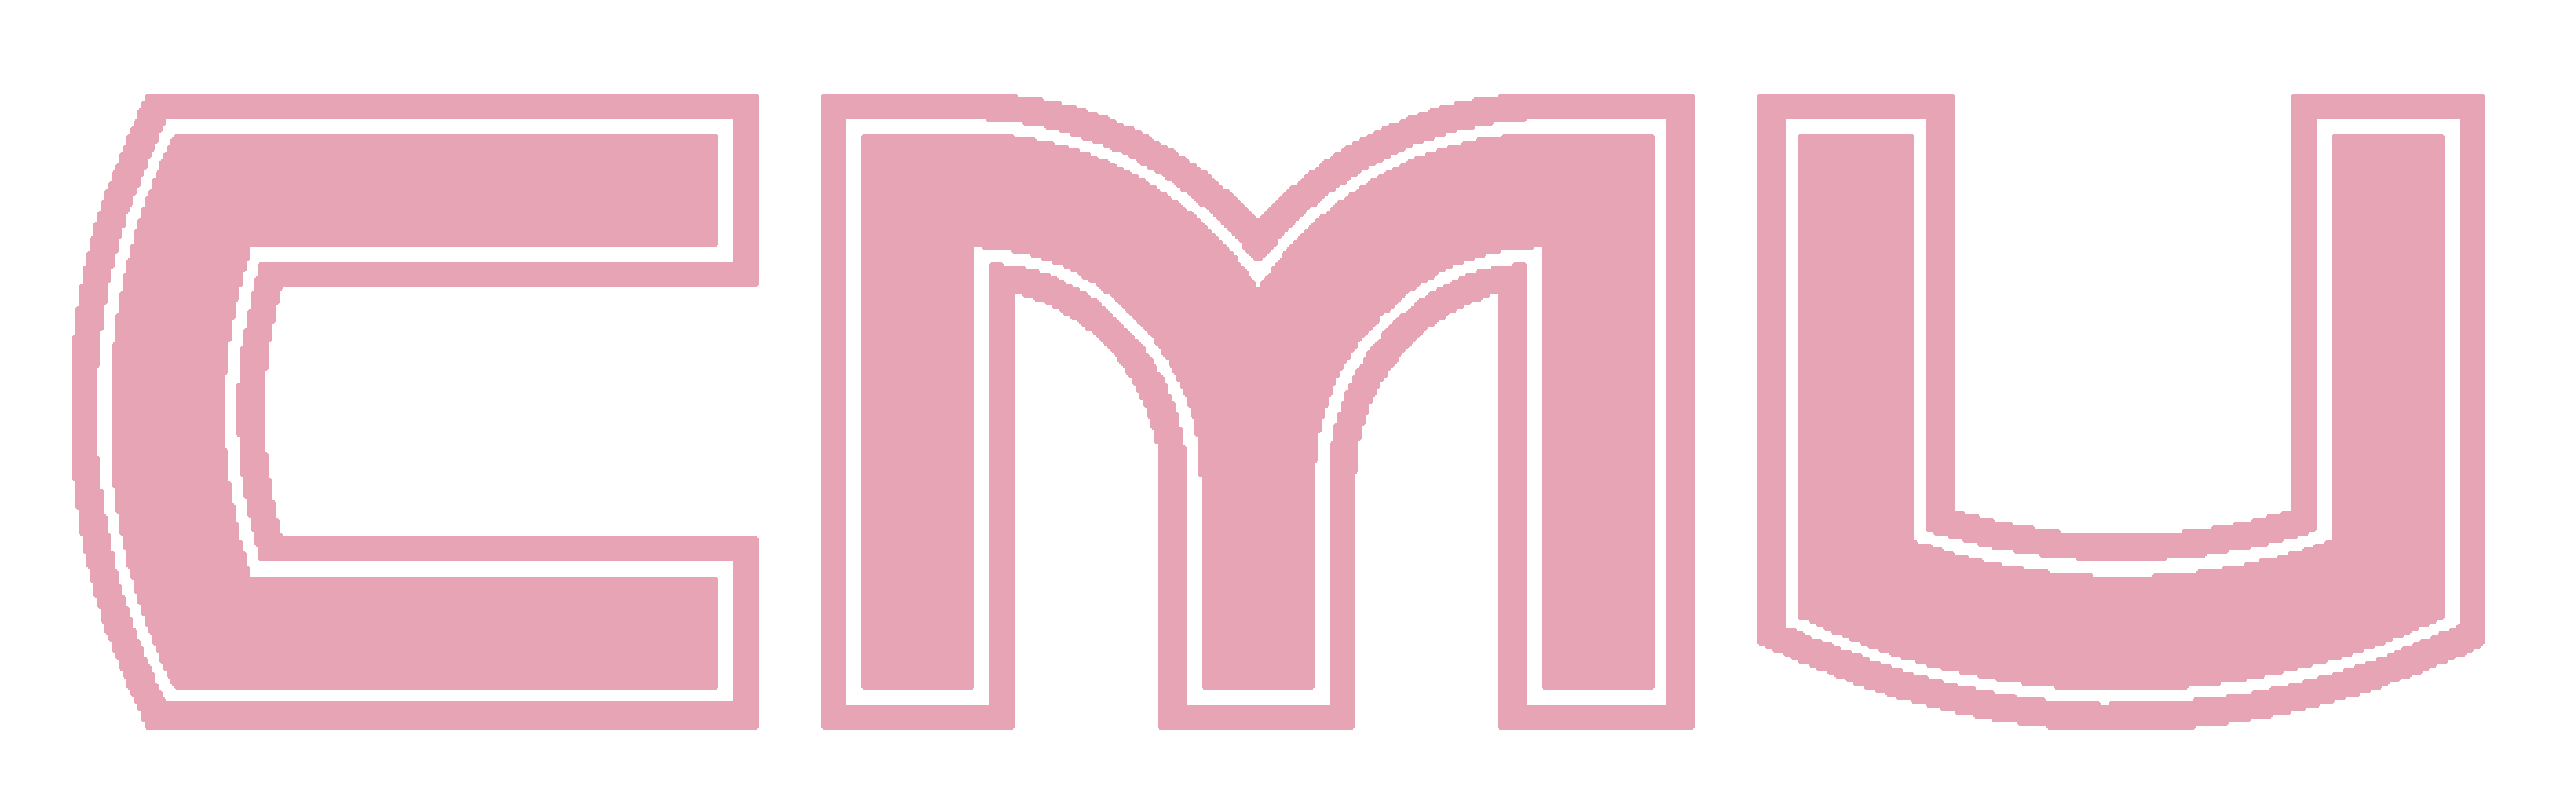
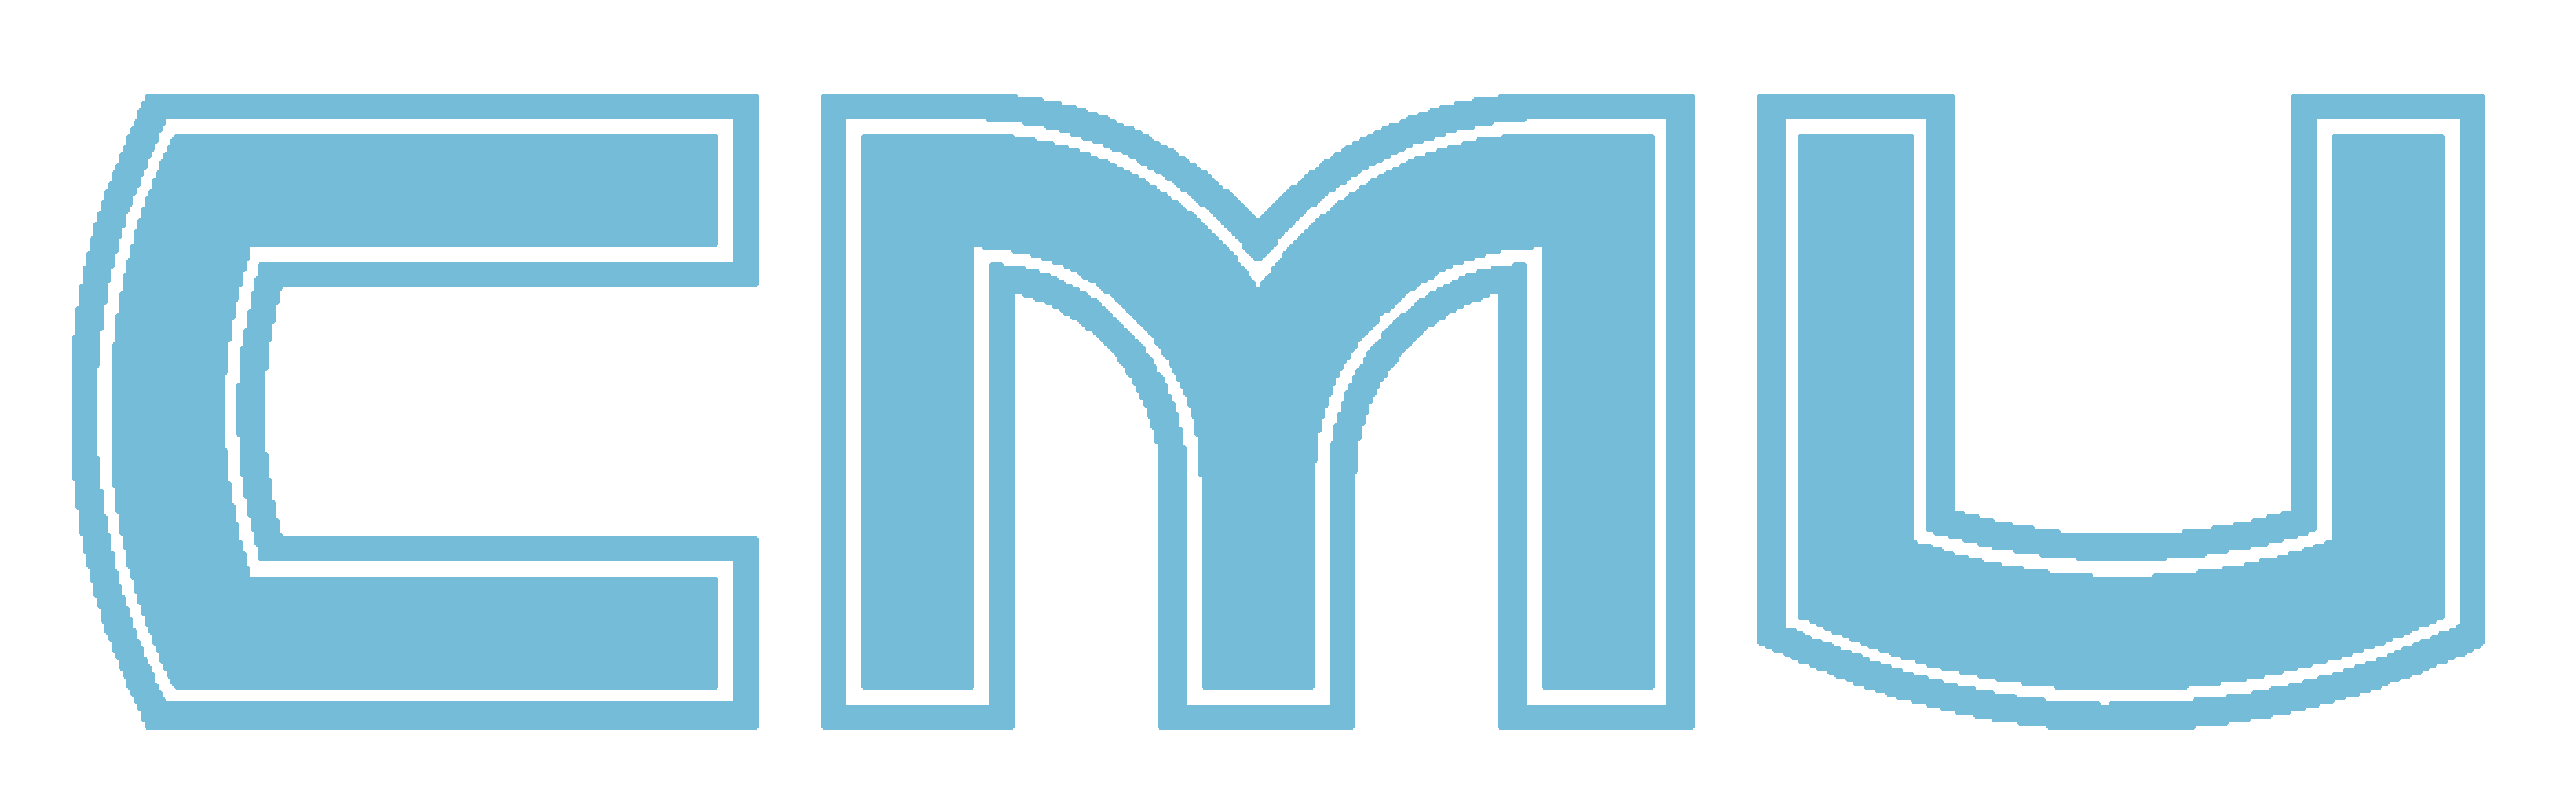
finished jan25 newsletter mostly

diff --git a/2025/01/colors.css b/2025/01/colors.css
@@ -1,18 +1,20 @@
 :root {
-	--color-1: #4B644A;
-	--color-2: #63264A;
-	--color-3: #AED67C;
-	--color-4: #E7A4B4;
+	--color-1: #4a4a4a;
+	--color-2: #75bcd9;
+	--color-3: #f8f1ef;
+	--color-4: #bbacd4;
+
 
 	--page-color: var(--color-1);
 
-	--title-tx-color: var(--color-4);
-	--h-color: var(--color-4);
-	--box-bg-color: var(--color-2);
+	--title-tx-color: var(--color-2);
+	--h-color: var(--color-2);
 
-	--tx-color: var(--color-3);
+	--tx-color: var(--color-4);
 
-	--box-tx-color: var(--color-4);
+	--box-bg-color: var(--color-4);
+	--box-tx-color: var(--color-1);
+
 }
 
 /* BORDERS */

diff --git a/2025/01/pages.php b/2025/01/pages.php
@@ -5,101 +5,101 @@
 	<!-- HEADER -->
 	<div class="page-section _10">
 		<div class="page-item vert-center">
-			<img class="contain no-lightbox" src="/2024/11/images/focus.png" alt="FOCUS logo">
+			<img class="contain no-lightbox" src="/2025/01/images/focus.png" alt="FOCUS logo">
 		</div>
 		<div class="page-item vert-center text-center w4 nopad">
 			<h1 class="cardo">The Mission at Mesa</h1>
-			<h6 class="italic" style="white-space: nowrap;">Zach Hofmeister<span class="no-style"> | </span>Colorado Mesa University<span class="no-style"> | </span>November + December 2024</h6>
+			<h5 class="italic" style="white-space: nowrap;">Zach Hofmeister<span class="no-style"> | </span>Colorado Mesa University<span class="no-style"> | </span>January 2025</h5>
 		</div>
 		<div class="page-item vert-center">
-			<img class="contain no-lightbox" src="/2024/11/images/cmu.png" alt="CMU logo">
+			<img class="contain no-lightbox" src="/2025/01/images/cmu.png" alt="CMU logo">
 		</div>
 	</div>
 
 	<!-- MAIN IMAGE -->
 	<div class="page-section _30">
 		<div class="page-item">
-			<img class="h100" src="/2024/11/images/mass.jpeg" alt="" style="object-position: 50% 30%;" data-caption="A group of some of the guys after weekday Mass one morning">
+			<img class="h100" src="/2025/01/images/dinner.jpeg" alt="" style="object-position: 50% 60%;" data-caption="Most of our students after the dinner we catered at SEEK!">
 		</div>
 	</div>
 
 	<!-- INTRO / PHOTO -->
 	<div class="page-section _30">
 		<div class="page-item">
+			<img class="photo-item h90" src="/2025/01/images/flag.jpeg" alt="" style="object-position: 50% 50%">
+			<p class="caption text-large">The men hoisting the Mesa flag</p>
+		</div>
+		<div class="page-item">
 			<div class="box">
 				<h2 class="italic">Dear Friends,</h2>
 				<p class="text-large">
-					I hope that you had a great Thanksgiving with family and are enjoying the season of Advent! As you prepare your heart for Christ's coming, take a seat by the fire and reflect with me on this past month-and-a-half of mission!
+					It's good to be back! Our students didn't start class 'til the 21st, but a lot has been going on! Over break we had the SEEK conference and a retreat with missionaries and students, and there's lots to share from starting the semester too!
 				</p>
 			</div>
-		</div>
-		<div class="page-item">
-			<img class="photo-item h80" src="/2024/11/images/thankful.jpeg" alt="" style="object-position: 50% 50%">
-			<p class="caption text-large">Our outreach activity asking people about what they are thankful for</p>
 		</div>
 	</div>
 
 	<!-- Paragraph + Image -->
 	<div class="page-section _30">
-		<div class="page-item">
-			<img class="h80" src="/2024/11/images/michelle.jpeg" alt="" >
-			<p class="caption text-large">Our huge group that saw the <a href="https://focus.org/michelleduppong/" target="_blank">Michelle Duppong</a> documentary in theaters</p>
+		<div class="page-item text-right">
+			<h3>SEEK Conference</h3>
+			<p class="text-medium">
+				We began our new year in Salt Lake City for SEEK25! In 2020 my life was forever changed when I encountered Jesus' heart anew at a FOCUS conference, and I love to witness Him working in our students there. It was amazing getting to go to powerful talks, daily Mass, and Adoration with them. <a href="https://seekreplay.com/video/141" target="_blank">This</a> was one of my favorite talks!
+			</p>
 		</div>
 		<div class="page-item">
-			<h3>Bible Study Wrap-Ups</h3>
-			<p class="text-medium">
-				After finishing the Crux, I started the <a href="https://focusequip.org/life-in-christ/" target="_blank">Life in Christ</a> Bible study with my group. So far, we've been talking about what it means to call ourselves disciples in the modern day, and how we practice discipleship through prayer and fellowship. I also shared the Gospel with Dylan and John over lunch, and invited them to enter discipleship too!
-			</p>
+			<img class="h80" src="/2025/01/images/dudes.jpeg" alt="" >
+			<p class="caption text-large">A bunch of the guys as we wait for a talk to start</p>
 		</div>
 	</div>
 </div>
 
 <!-- PAGE 2 -->
 <div class="page">
-	<!-- header -->
+	<!-- quote -->
 	<div class="page-section _10">
 		<div class="page-item center-center">
-			<p class="text-large text-center"><i>But you are not in darkness, brethren, for that day to surprise you like a thief. For you are all sons of light and sons of the day.</i> - <a href="https://www.biblegateway.com/passage/?search=1%20Thessalonians%205&version=RSVCE" target="_blank">1 Thessalonians 5:4-5</a></p>
-		</div>
-	</div>
-
-	<!-- photo-text -->
-	<div class="page-section _30">
-		<div class="page-item text-right">
-			<h3>Discipleship Update</h3>
-			<p class="text-medium">
-				In our discipleship meetings, I invited 3 more guys to take seriously Christ's call for us to be on mission with Him, and to do that through intentional friendship and starting Bible studies. Gabe, Drew, Barrett, and Nick will be preparing to start their own studies next semester over the break! I'm so excited for them to take this big step!
-			</p>
-		</div>
-		<div class="page-item">
-			<img class="photo-item h80" src="/2024/11/images/plates.jpeg" alt="" style="object-position: 50% 50%;" data-caption=" We wrote down sins and obstacles to sharing the Gospel on the plates, and I think you can figure out the rest.">
-			<p class="caption text-large">We made a men's trip to the desert with plates, sharpies, and baseball bats...</p>
-		</div>
-	</div>
-
-	<!-- photo-text -->
-	<div class="page-section _30">
-		<div class="page-item">
-			<img class="h80" src="/2024/11/images/birthday.jpeg" alt="">
-			<p class="caption text-large">The guys surprised me and celebrated my birthday with cake at discipleship :)</p>
-		</div>
-		<div class="page-item">
-			<h3>Recruitment Weekend</h3>
-			<p class="text-medium">
-				I got to help with a FOCUS recruitment weekend in November, and it was so rejuvenating. This year has honestly been stressful for me, and it was great to take a step back, see friends, talk with people discerning God's call to mission, and pray in a refreshed way. The Lord gave me a lot of peace and clarity in prayer that weekend!
-			</p>
+			<p class="text-large text-center"><i>And a voice came from the heavens, saying, “This is my beloved Son, with whom I am well pleased.”</i> - <a href="https://www.biblegateway.com/passage/?search=Matthew%203%3A16%2D17&version=NABRE" target="_blank">Matthew 3:17</a> (this verse was powerful for me at SEEK and since!)</p>
 		</div>
 	</div>
 
 	<!-- photos -->
 	<div class="page-section _25">
 		<div class="page-item">
-			<img class="photo-item h80" src="/2024/11/images/recruitment.jpeg" alt="" >
-			<p class="caption text-large">My group that I accompanied through their interviews with FOCUS</p>
+			<img class="photo-item h80" src="/2025/01/images/bananas.jpeg" alt="" >
+			<p class="caption text-large">We all wore banana costumes to the Forrest Frank concert at SEEK</p>
 		</div>
 		<div class="page-item">
-			<img class="photo-item h80" src="/2024/11/images/mishes.jpeg" alt="" >
-			<p class="caption text-large">Olivia and Sophie (left) both accepted offers from FOCUS to be missionaries next year! We are so excited for them and the students they will serve!</p>
+			<img class="photo-item h80" src="/2025/01/images/group.jpeg" alt="" >
+			<p class="caption text-large">Everyone together after the last Mass</p>
+		</div>
+	</div>
+
+	<!-- Missionary Summit -->
+	<div class="page-section _30">
+		<div class="page-item">
+			<img class="photo-item h80" src="/2025/01/images/summit.jpeg" alt="" style="object-position: 50% 50%;">
+			<p class="caption text-large">Our students and team in front of the chapel at the missionary summit retreat</p>
+		</div>
+		<div class="page-item">
+			<h3>Missionary Summit</h3>
+			<p class="text-medium">
+				The weekend before the semester started, FOCUS invited us, our students, and other campuses to a retreat. It was a powerful time to reflect on being God's beloved children, and being fishers of men and going out into the deep to share the Gospel on campus. I got to catch up with some of the Air Force cadets there as well!
+			</p>
+		</div>
+	</div>
+
+	<!-- Exodus 90 -->
+	<div class="page-section _35">
+		<div class="page-item text-right">
+			<h3>Exodus 90</h3>
+			<p class="text-medium">
+				At SEEK, a lot of the men were inspired to start <a href="https://exodus90.com" target="_blank">Exodus 90</a>: a 90-day spiritual exercise of fasting, asceticism, and prayer leading up to Easter. I honestly didn't want to do it, but felt called to go through it with the guys this year - and I'm so glad I did. It has been especially cool to see their increased commitment to prayer and Mass - some of them have even started praying for an hour each day!
+			</p>
+		</div>
+		<div class="page-item">
+			<img class="h80" src="/2025/01/images/exodus.jpeg" alt="" data-caption=". LtR: Dylan, Keegan, Barrett, Tony, John, Jorge, Christian, Elijah, Joe, and Nick.">
+			<p class="caption text-large">The guys who have started Exodus 90 after our first group meeting</p>
 		</div>
 	</div>
 </div>
@@ -109,40 +109,36 @@
 
 	<!-- photo-text -->
 	<div class="page-section _30">
-		<div class="page-item text-right">
-			<h3>Advent and Christmas Plans</h3>
-			<p class="text-medium">
-				This Advent I've been praying with preparation for Christ's coming at the end of our lives and the world, and talking about that with our students (see verse above). We're also having an Upper Room meeting over break with our disciples to encourage them in this. I'm also excited for the SEEK conference with them in January!
-			</p>
+		<div class="page-item">
+			<img class="photo-item h90" src="/2025/01/images/barrett.jpeg" alt="" style="object-position: 50% 50%;">
+			<p class="caption text-large">Barrett (first day of school picture)</p>
 		</div>
 		<div class="page-item">
-			<img class="photo-item h80" src="/2024/11/images/shooting.jpeg" alt="" style="object-position: 50% 50%;">
-			<p class="caption text-large">I enjoyed a spontaneous shooting range trip with some of the men</p>
+			<h3>Bible Studies</h3>
+			<p class="text-medium">
+				We have been praying for more student-led men's Bible studies at Mesa for a long time. Last semester we had our first one ever, and this semester we have 3 more starting! At SEEK, Barrett went to talks on leading a Bible study and came back excited to start his own! I'm so proud of him and grateful to God for this answered prayer.
+			</p>
 		</div>
 	</div>
 
-	<!-- Other highlights -->
+	<!-- Pics -->
 	<div class="page-section _20">
 		<div class="page-item">
-			<img class="h80" src="/2024/11/images/xmas.jpeg" alt="" >
-			<p class="caption text-large">The Mesa Catholic Christmas party</p>
+			<img class="h80" src="/2025/01/images/concert.jpeg" alt="" style="object-position: 50% 50%;" data-caption=". It was a lot of fun to be up at the front of the concert with a priest! Lots of people came up and wanted to know where his parish was.">
+			<p class="caption text-large">Fr. Carl invited some of us to a bluegrass concert in town</p>
 		</div>
 		<div class="page-item">
-			<h3>Other Highlights</h3>
-			<ul class="text-medium">
-				<li>Acquiring a snack for Bible study and fried chicken with Drew</li>
-				<li>My Thanksgiving trip to Michigan and Ohio to meet more of Allison's family</li>
-				<li>High intensity team bonding time playing the board game Pandemic</li>
-			</ul>
+			<img class="h80" src="/2025/01/images/robert.jpeg" alt="" style="object-position: 50% 30%;">
+			<p class="caption text-large">Robert came over to our house to say hi to Melvin</p>
 		</div>
 	</div>
 
 	<!-- PRAYER INTENTIONS -->
 	<div class="page-section _15">
 		<div class="page-item">
-			<h3>Prayer Requests</h3>
-			<p class="text-large">
-				Please pray for Olivia and Sophie as they prepare for full-time mission, for our student Bible study leaders, and for many graces to be poured out on us through the SEEK conference Jan 1-5th. Please share any prayer intentions you have too!
+			<h3 style="margin-top: 5px;">Prayer Requests</h3>
+			<p class="text-medium">
+				Please pray for our students fundraising for their mission trip, for our student Bible study leaders (Barrett, Matthew, Ryan, Keegan, Olivia, Brenna, Sophie, Kylee, and Bridget) and those they're inviting, and for an increase of chastity, zeal for souls, and fortitude.
 			</p>
 		</div>
 	</div>
@@ -150,15 +146,15 @@
 	<!-- PHOTO / THANK YOU -->
 	<div class="page-section _25">
 		<div class="page-item">
-			<img class="photo-item h90" src="/2024/11/images/engagement.jpeg" alt="" style="object-position: 50% 50%;" data-caption=" And a clue for the observant...">
-			<p class="caption text-large">Have a Merry Christmas!</p>
+			<img class="photo-item h80" src="/2025/01/images/kiln.jpeg" alt="" style="object-position: 50% 50%;">
+			<p class="caption text-large">Allison and I started our marriage prep classes; it's an exciting journey!</p>
 		</div>
 		<div class="page-item text-medium">
 			<div class="box">
 				<h2 class="italic">THANK YOU!</h2>
-				<p class="text-large">I am so grateful to be on this mission at Colorado Mesa with you. Thank you for helping to fulfill the great commission!</p>
+				<p class="text-medium">Thank you for being on mission with me here at Mesa! Your prayers are powerful with God and I am grateful for your generosity. I am praying for you.</p>
 				<p class="text-medium text-right">
-					Christmas blessings, Zach
+					In the Father's love, Zach
 				</p>
 			</div>
 		</div>
@@ -174,7 +170,7 @@
 		</div>
 		<div class="page-item text-left vert-center" style="padding: 0;">
 			<a href="https://www.focus.org" target="_blank" style="padding: 0 4%;">
-				<img class="contain no-lightbox" src="/2024/11/images/focus.png" alt="FOCUS logo">
+				<img class="contain no-lightbox" src="/2025/01/images/focus.png" alt="FOCUS logo">
 			</a>
 		</div>
 		<div class="page-item text-left vert-center" style="padding: 0;">
@@ -182,70 +178,3 @@
 		</div>
 	</div>
 </div>
-
-<!-- PAGE 4 -->
-<div class="page">
-	<!-- header -->
-	<div class="page-section _10">
-		<div class="page-item center-center">
-			<h2>More Photos!</h2>
-		</div>
-	</div>
-
-	<!-- photos -->
-	<div class="page-section _30">
-		<div class="page-item">
-			<img class="h80" src="/2024/11/images/ben.jpeg" alt="" >
-			<p class="caption text-large">Hanging out with Ben while we take Christmas card photos</p>
-		</div>
-		<div class="page-item">
-			<img class="h80" src="/2024/11/images/catan.jpeg" alt="" >
-			<p class="caption text-large">A game of Settlers of Catan with Dylan, Gabe, Mason, and me</p>
-		</div>
-	</div>
-
-	<!-- photos -->
-	<div class="page-section _30">
-		<div class="page-item">
-			<img class="h80" src="/2024/11/images/haircut.jpeg" alt="" >
-			<p class="caption text-large">Nadine buzzed my teammate Joe's hair, since we made it to 50 SEEK signups!</p>
-		</div>
-		<div class="page-item">
-			<img class="h80" src="/2024/11/images/keegan.jpeg" alt="" data-caption=" Jacky is a bald eagle, Clare is Lady Liberty, Joe is the American flag, and I am Uncle Sam.">
-			<p class="caption text-large">Joe, me, and Keegan at Allison's birthday party</p>
-		</div>
-	</div>
-	
-	<!-- photos -->
-	<div class="page-section _30">
-		<div class="page-item">
-			<img class="h80" src="/2024/11/images/karaoke.jpeg" alt="" >
-			<p class="caption text-large">Joe and Gabe singing "All I Want For Christmas Is You" karaoke</p>
-		</div>
-		<div class="page-item">
-			<img class="h80" src="/2024/11/images/chickfila.jpeg" alt="" >
-			<p class="caption text-large">I ran into Jeanette at Chick Fil A</p>
-		</div>
-	</div>
-</div>
-
-<!-- Page 5 -->
-<div class="page _50">
-	<div class="page-section _10">
-		<div class="page-item center-center">
-			<h2>Pause your Hallmark movies!</h2>
-		</div>
-	</div>
-	<div class="page-section _30">
-		<div class="page-item">
-			<p class="text-medium">
-				If you didn't get a chance to see the incredible <a href="https://focus.org/michelleduppong/" target="_blank">documentary about the servant of God Michelle Duppong</a>, or want to share it with family this Christmas, it is now available to stream on EWTN for free! Michelle Duppong entered eternal life on December 25, 2015. This is a great advent movie to prepare ourselves if Christ calls us also to stand before Him this Christmas. I hope you get the chance to watch it!
-			</p>
-		</div>
-	</div>
-	<div class="page-section _60">
-		<div class="page-item">
-			<a href="https://focus.org/michelleduppong/" target="_blank"><img class="h100 no-lightbox" src="/2024/11/images/insert.png " alt="" style="object-position: 50% 50%;"></a>
-		</div>
-	</div>
- </div>
